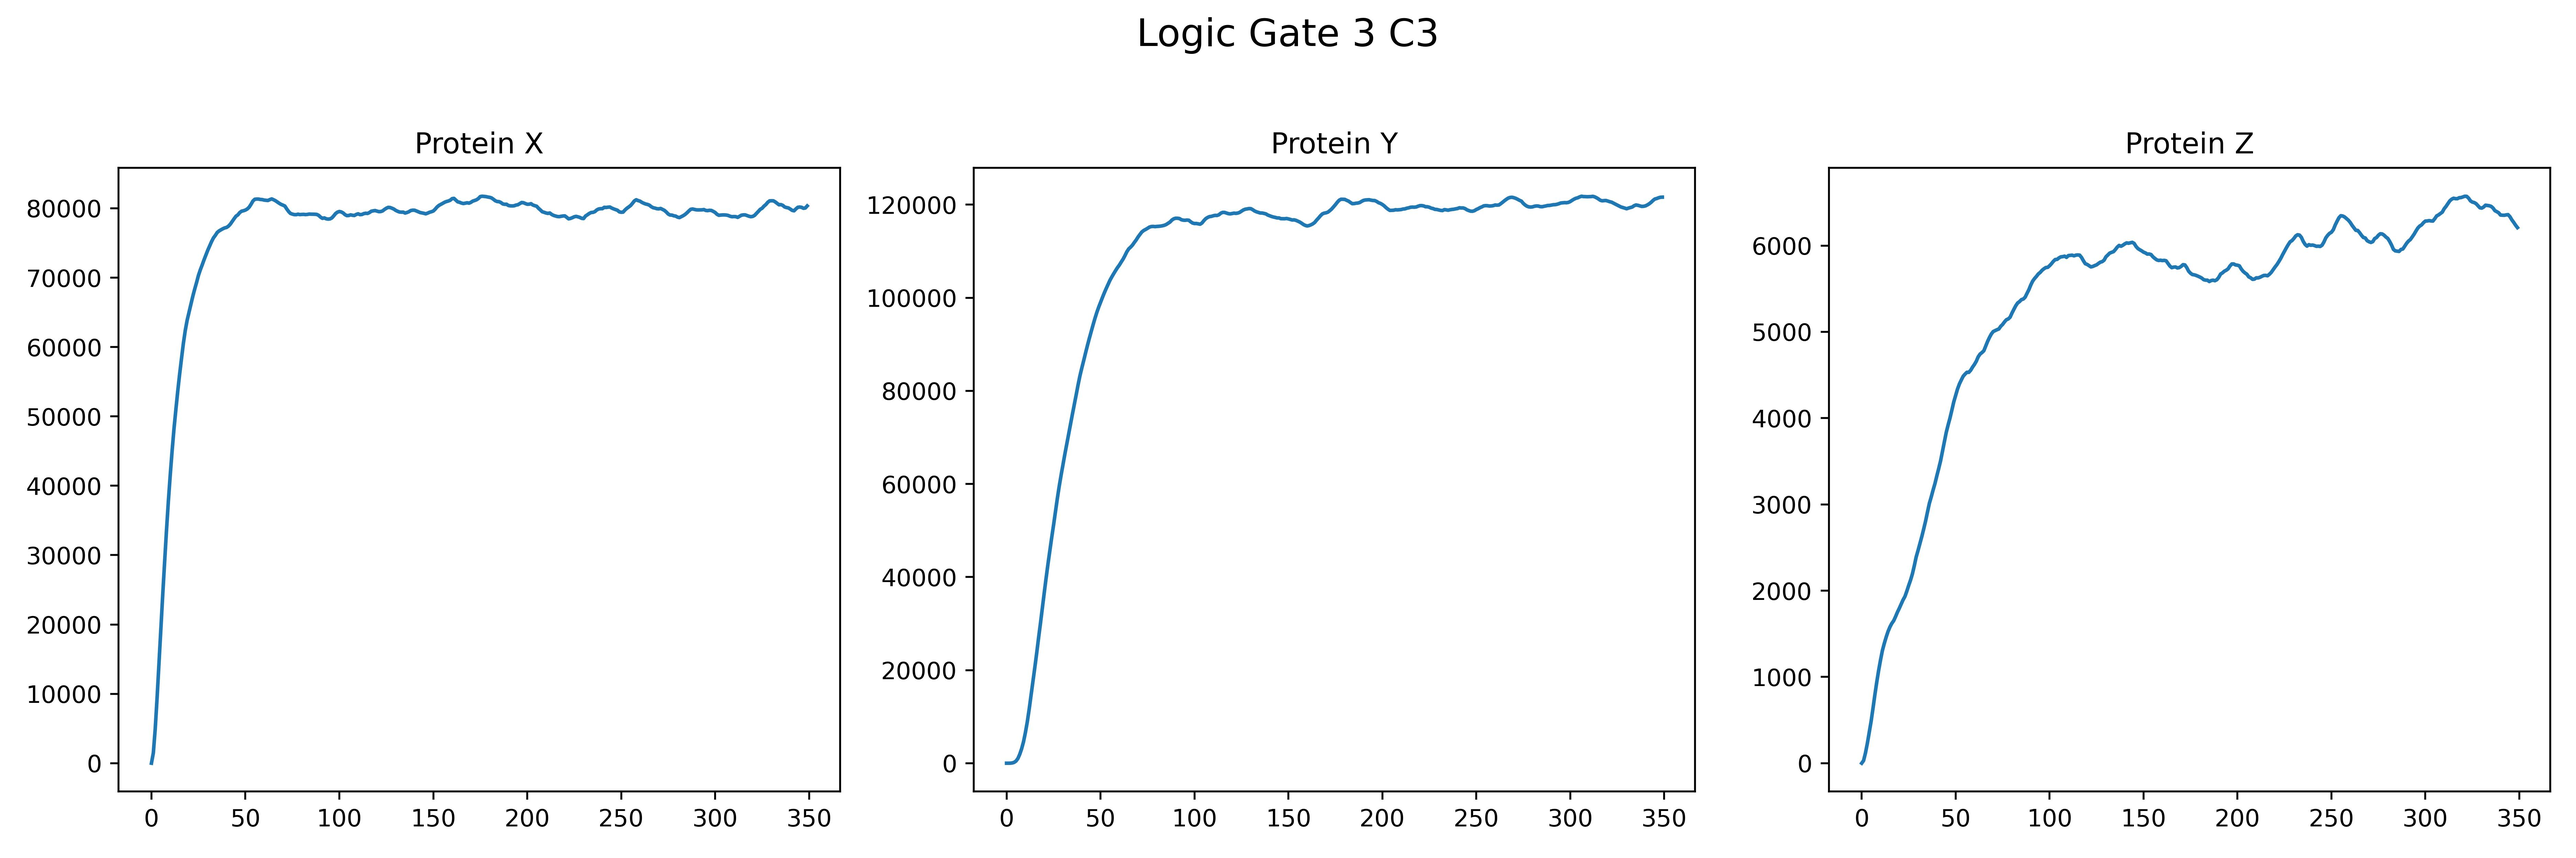
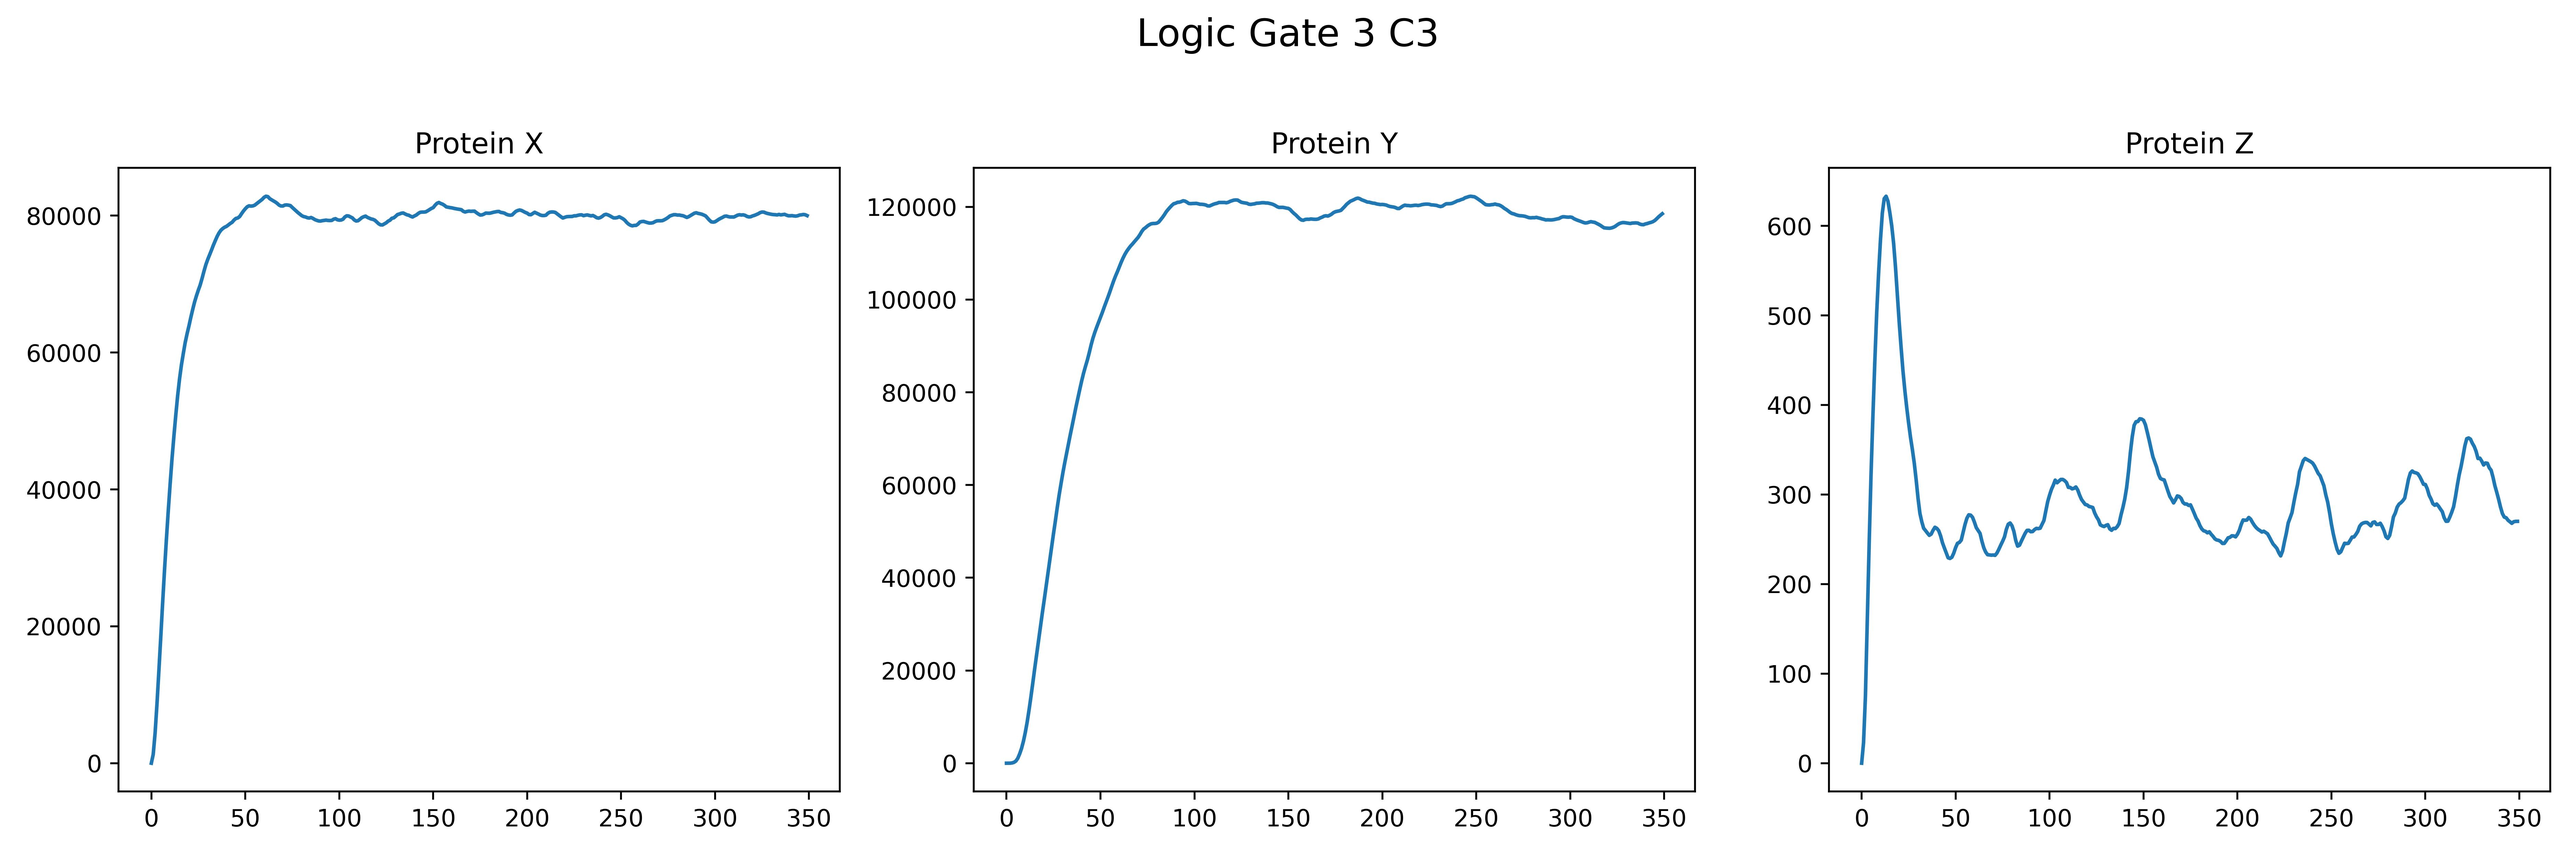
Updates

diff --git a/Additional/Hill_Functions.py b/Additional/Hill_Functions.py
@@ -5,6 +5,7 @@ from numba import jit,njit
 import pandas as pd
 import json
 import matplotlib.pyplot as plt
+#%%
 
 def Hill_Activation(cantidad, sensitivity, expresion_level, hill):
     return expresion_level*((cantidad**hill)/(cantidad**hill + sensitivity**hill))
@@ -12,32 +13,12 @@ def Hill_Activation(cantidad, sensitivity, expresion_level, hill):
 def Hill_Represion(cantidad, sensitivity, expresion_level, hill):
     return expresion_level*((sensitivity**hill)/(cantidad**hill + sensitivity**hill))
 #%%
-valores_X = np.linspace(0,1000,1000)
-
-valores_Activacion = []
-valores_Represion = []
-
-for valor in valores_X:
-    valores_Activacion.append(Hill_Activation(valor, 500, 1000, 2))
-    valores_Represion.append(Hill_Represion(valor, 200, 1000, 2))
-
-plt.plot(valores_Activacion, color = 'green', label = "Activacion")
-plt.plot(valores_Represion, color = 'red', label = "represion")
-#%%
-#%%
-#Importe de librerias
-import numpy as np
-from tqdm import tqdm
-from numba import jit,njit
-import pandas as pd
-import json
-#%%
 #___________________________________________________________________________________________________
 # FUNCIONES 
 
 #___________________________________________________________________________________________________
 #Parametros de simulacion
-
+"""
 Kpx = 200            #Tasa de creacion de proteina X
 Kpy = 300            #Tasa de creacion de proteina Y
 Kpz = 100            #Tasa de creacion de proteina Z
@@ -50,8 +31,7 @@ muX     =1/20            #Tasa de degradacion de proteina X
 muY     =1/40            #Tasa de degradacion de proteina Y
 muZ     =1/30            #Tasa de degradacion de proteina Z
 
-My = 10
-Mz = 25
+My = 1
 
 Kx = 4
 Hill = 2
@@ -63,7 +43,7 @@ valor_Y_estacionario = (Kpy/muY)*My
 Kxy  = valor_X_estacionario/2       #Coeficiente de interaccion proteina X con ARNmY
 Kxz  = valor_X_estacionario         #Coeficiente de interaccion proteina X con ARNmZ
 
-Ky = (My*gammamy)*(((valor_X_estacionario**Hill) + (Kxy**Hill))/(valor_X_estacionario**Hill))
+Ky = (My*gammamy)*(((valor_X_estacionario**Hill) + (Kxy**Hill))/(Kxy**Hill))
 
 print(f"Estado_Estacionario_X: {valor_X_estacionario}")
 print(f"Estado_Estacionario_Y: {valor_Y_estacionario}")
@@ -71,28 +51,66 @@ print(f"Estado_Estacionario_Y: {valor_Y_estacionario}")
 print(f"Kxy: {Kxy}")
 print(f"Ky: {Ky}")
 @njit
+"""
+Kpx = 200            #Tasa de creacion de proteina X
+Kpy = 300            #Tasa de creacion de proteina Y
+
+gammamx = 1/5        #Tasa de degradacion de ARNmX
+gammamy = 1/7        #Tasa de degradacion de ARNmY
+
+muX     =1/20            #Tasa de degradacion de proteina X
+muY     =1/40            #Tasa de degradacion de proteina Y
+
+
+
+Kx = 4
+Ky = 10
+Hill = 2
+
+Mx = Kx/gammamx
+valor_X_estacionario = (Kpx/muX)*Mx
+
+Kxy  = valor_X_estacionario/2       #Coeficiente de interaccion proteina X con ARNmY
+Kxz  = valor_X_estacionario         #Coeficiente de interaccion proteina X con ARNmZ
+
+#My = (Ky/gammamy)*((Kxy**Hill)/(valor_X_estacionario**Hill + Kxy**Hill))
+#valor_Y_estacionario = (Kpy/muY)*My
+
+
+#Dinamica ARNmx
+@njit
 def funcion_creacion_ARNmX():
     return Kx
+
+@njit
+def funcion_degradacion_ARNmX(cantidad_mX):
+    return gammamx*cantidad_mX
+
+#Dinamica X
+@njit
+def funcion_creacion_X(cantidad_mX):
+    return Kpx*cantidad_mX
+
+@njit
+def funcion_degradacion_X(cantidad_X):
+    return muX * cantidad_X 
+
+
+#Dinamica ARNmy
 @njit
 def funcion_creacion_ARNmY(cantidad_X):
     return Ky*((Kxy**Hill)/(cantidad_X**Hill + Kxy**Hill))
 
 @njit
-def funcion_creacion_X(cantidad_mX):
-    return Kpx*cantidad_mX
+def funcion_degradacion_ARNmY(cantidad_mY):
+    return gammamy*cantidad_mY
+
+
+#Dinamica Y
 @njit
 def funcion_creacion_Y(cantidad_mY):
     return Kpy*cantidad_mY
 
-@njit
-def funcion_degradacion_ARNmX(cantidad_mX):
-    return gammamx*cantidad_mX
-@njit
-def funcion_degradacion_ARNmY(cantidad_mY):
-    return gammamy*cantidad_mY
-@njit
-def funcion_degradacion_X(cantidad_X):
-    return muX * cantidad_X 
 @njit
 def funcion_degradacion_Y(cantidad_Y):
     return muY * cantidad_Y 
@@ -174,10 +192,16 @@ x0 = np.array([0., 0., 0., 0., 0.])
 num_cel = 100 #número de células 
 celulas = np.array([Estado_celula(x0,np.arange(0.,700.,2.)) for i in tqdm(range(num_cel))])
 # %%
-celulas = np.mean(celulas, axis = 0)
+celulas_promedio = np.mean(celulas, axis = 0)
 # %%
 import matplotlib.pyplot as plt
-plt.plot(celulas[:,-2], color = "green", label = "X constitutivo")
-plt.plot(celulas[:,-1], color = "red", label = "Y Activacion")
+plt.plot(celulas_promedio[:,1], color = "green", label = "X constitutivo")
+plt.plot(celulas_promedio[:,2], color = "red", label = "Y Activacion")
 plt.legend()
+# %%
+plt.plot(celulas_promedio[:,2])
+# %%
+print(My)
+# %%
+celulas_promedio[:,2][-1]
 # %%

diff --git a/Logic_Gate_3/Scripts_Simulations/information_FFL_C3.py b/Logic_Gate_3/Scripts_Simulations/information_FFL_C3.py
@@ -47,8 +47,8 @@ for Hill in valores_posibles_Hill:
         valor_Z_estacionario = (Kpz/muZ)*Mz
 
         Kxy  = valor_X_estacionario/2        #Coeficiente de interaccion proteina X con ARNmY
-        Kxz  = valor_X_estacionario/4         #Coeficiente de interaccion proteina X con ARNmZ
-        Kyz  = valor_Y_estacionario/4         #Coeficiente de interaccion proteina Y con ARNmZ
+        Kxz  = valor_X_estacionario/10         #Coeficiente de interaccion proteina X con ARNmZ
+        Kyz  = valor_Y_estacionario/2         #Coeficiente de interaccion proteina Y con ARNmZ
 
         Ky = (My*gammamy)*(((valor_X_estacionario**Hill) + (Kxy**Hill))/(valor_X_estacionario**Hill))
 
@@ -63,8 +63,8 @@ for Hill in valores_posibles_Hill:
         @njit
         def funcion_creacion_ARNmZ(cantidad_X, cantidad_Y):
 
-            ARNmZ_interaction_X = Hill_Represion(cantidad_X, Kxy, Ky, Hill)
-            ARNmZ_interaction_Y = Hill_Represion(cantidad_Y, Kxy, Ky, Hill)
+            ARNmZ_interaction_X = Hill_Represion(cantidad_X, Kxz, Ky, Hill)
+            ARNmZ_interaction_Y = Hill_Represion(cantidad_Y, Kyz, Ky, Hill)
             K_parameters = [1,1,1,1,1]
             retorno = logic_gate_function_3(ARNmZ_interaction_X, ARNmZ_interaction_Y, K_parameters)
             return retorno
@@ -206,6 +206,8 @@ for Hill in valores_posibles_Hill:
 #    diccionario_global_FFL_C3[f"Coeficiente_Hill_{Hill}"] = [distribucion_proteina_X, distribucion_proteina_Y, distribucion_proteina_Z]
 #    np.save('Simulacion_FFL_C3_AND_final.npy', diccionario_global_FFL_C3)
 celulas = np.mean(celulas, axis=0)
+#%%
+
 # %%
 import matplotlib.pyplot as plt
 fig, axs = plt.subplots(1, 3, figsize=(15, 5))  # 1 fila, 3 columnas

diff --git a/Logic_Gate_3/Scripts_Simulations/information_FFL_C2.py b/Logic_Gate_3/Scripts_Simulations/information_FFL_C2.py
@@ -46,8 +46,8 @@ for Hill in valores_posibles_Hill:
         valor_Z_estacionario = (Kpz/muZ)*Mz
 
         Kxy  = valor_X_estacionario/2        #Coeficiente de interaccion proteina X con ARNmY
-        Kxz  = valor_X_estacionario/4         #Coeficiente de interaccion proteina X con ARNmZ
-        Kyz  = valor_Y_estacionario/4         #Coeficiente de interaccion proteina Y con ARNmZ
+        Kxz  = valor_X_estacionario/2         #Coeficiente de interaccion proteina X con ARNmZ
+        Kyz  = valor_Y_estacionario/8         #Coeficiente de interaccion proteina Y con ARNmZ
 
         Ky = (My*gammamy)*(((valor_X_estacionario**Hill) + (Kxy**Hill))/(Kxy**Hill))
 
@@ -62,8 +62,8 @@ for Hill in valores_posibles_Hill:
         @njit
         def funcion_creacion_ARNmZ(cantidad_X, cantidad_Y):
 
-            ARNmZ_interaction_X = Hill_Activation(cantidad_X, 10*Kxy, Ky, Hill)
-            ARNmZ_interaction_Y = Hill_Represion(cantidad_Y, Kxy, Ky, Hill)
+            ARNmZ_interaction_X = Hill_Activation(cantidad_X, Kxz, Ky, Hill)
+            ARNmZ_interaction_Y = Hill_Represion(cantidad_Y, Kyz, Ky, Hill)
             K_parameters = [1,1,1,1,1]
             retorno = logic_gate_function_3(ARNmZ_interaction_X, ARNmZ_interaction_Y, K_parameters)
             return retorno
